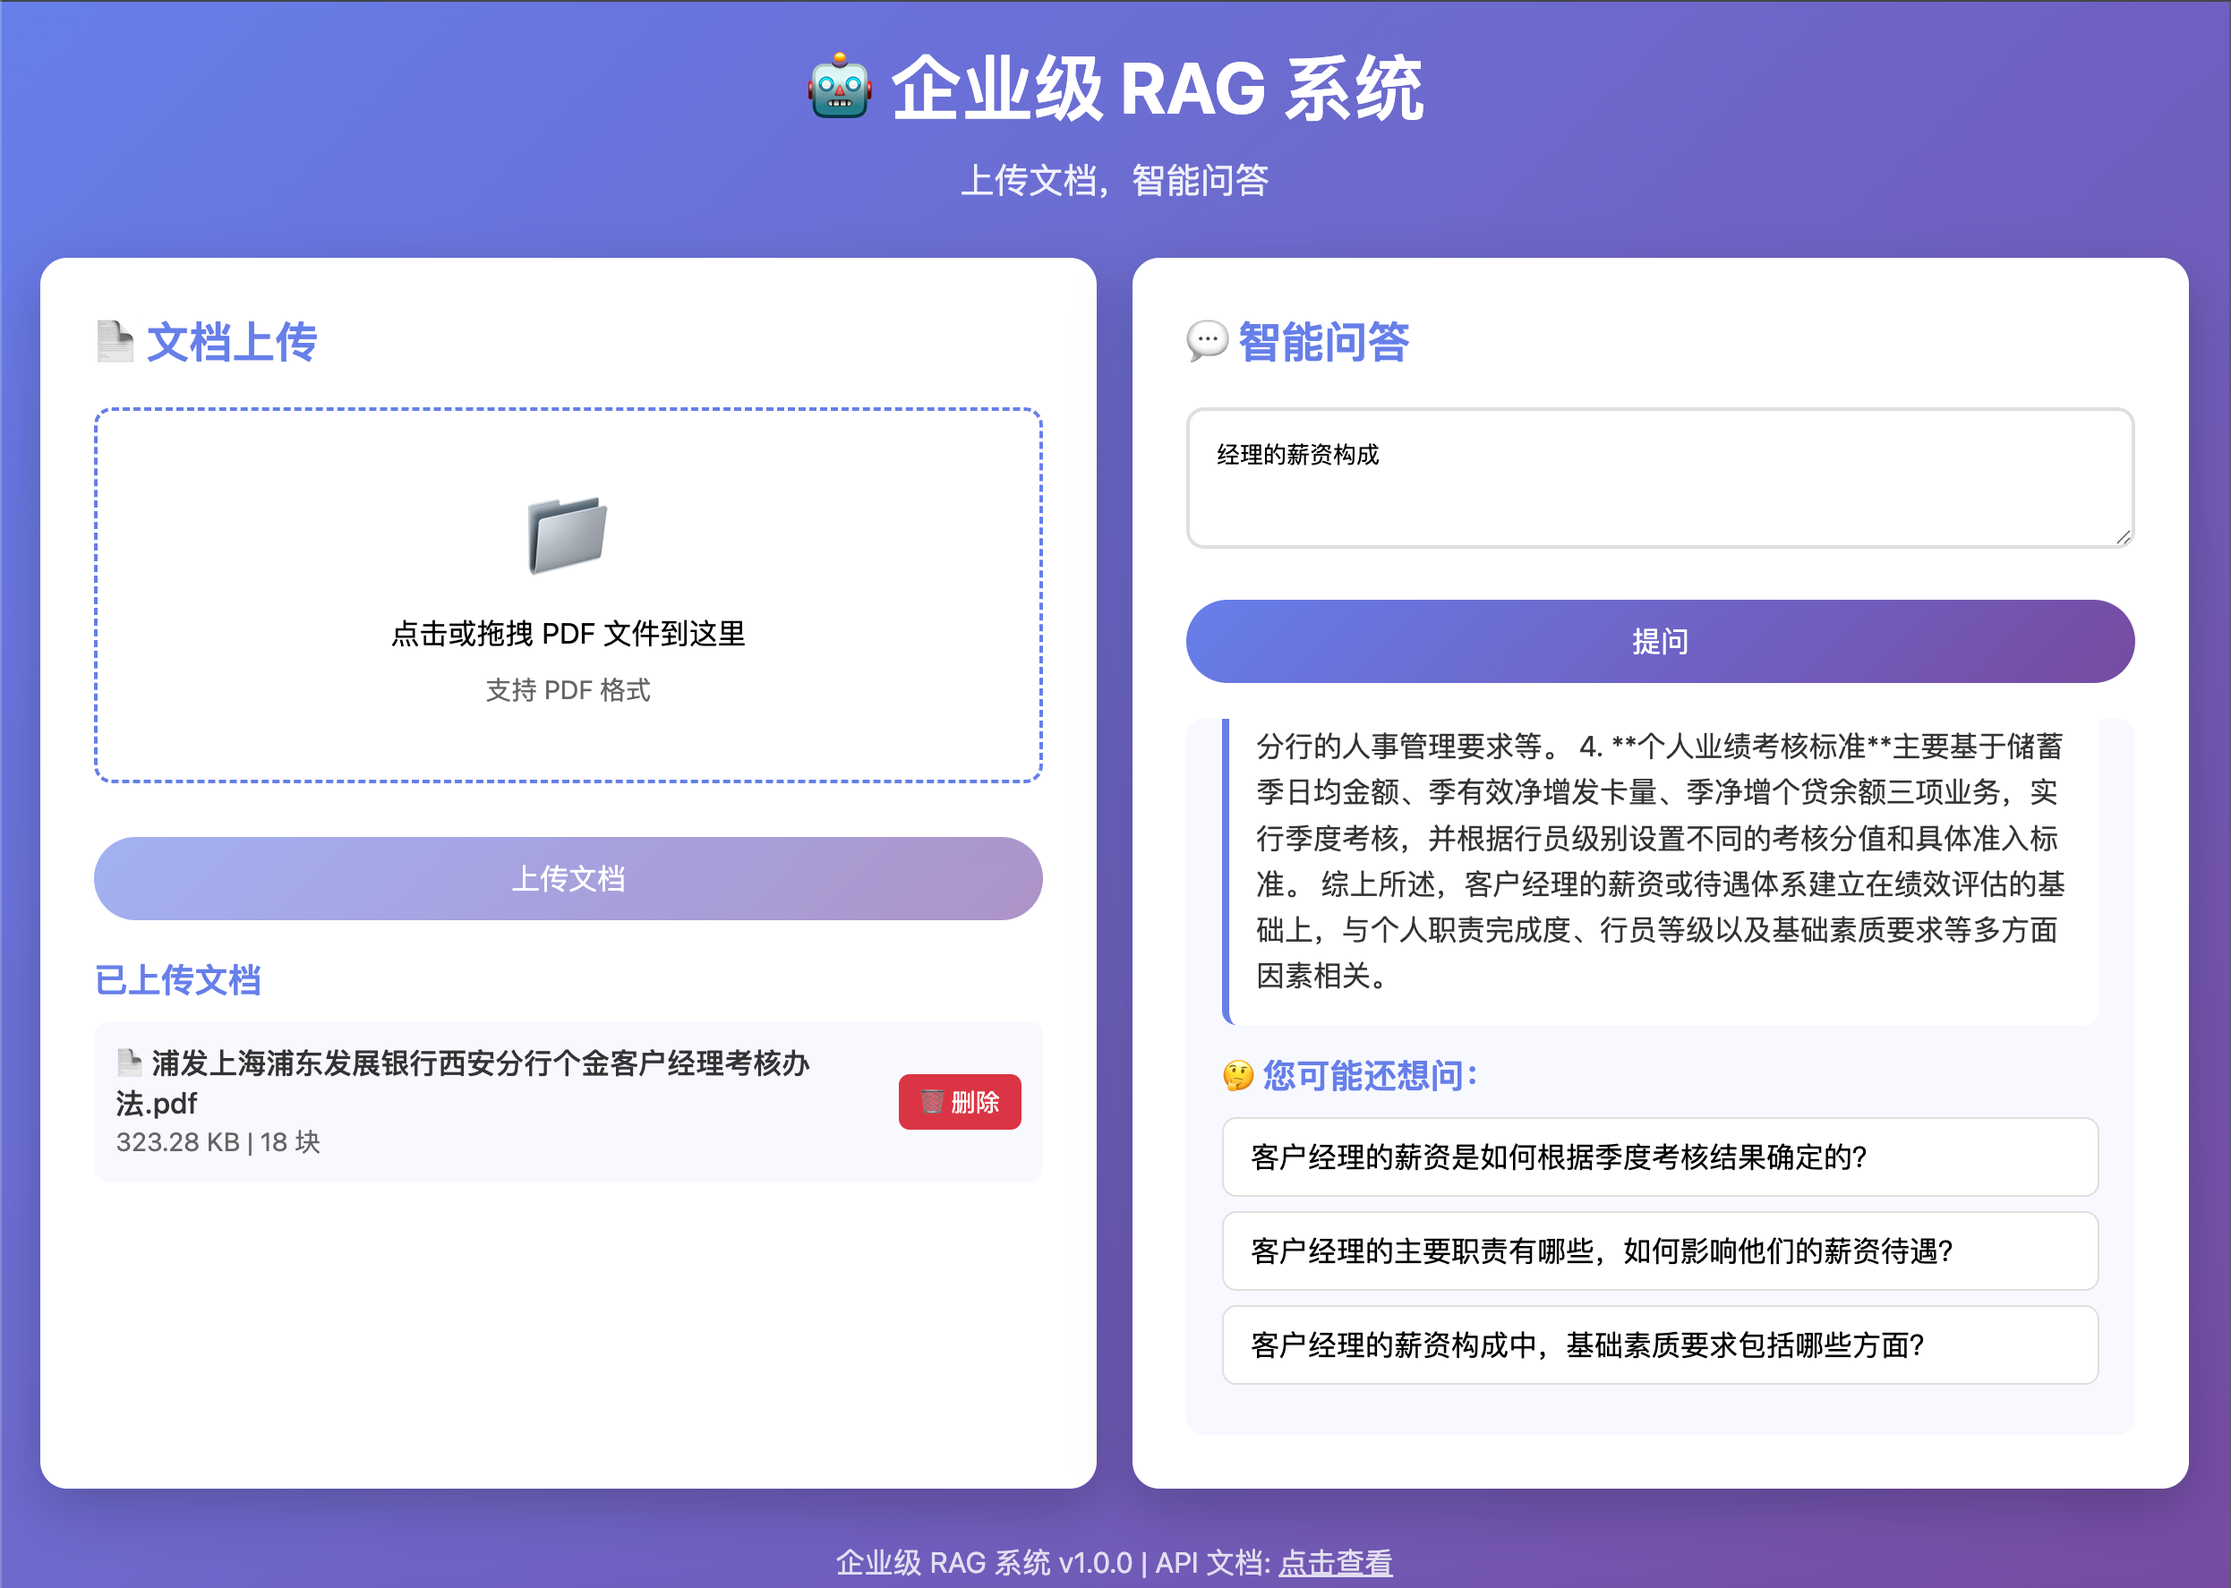
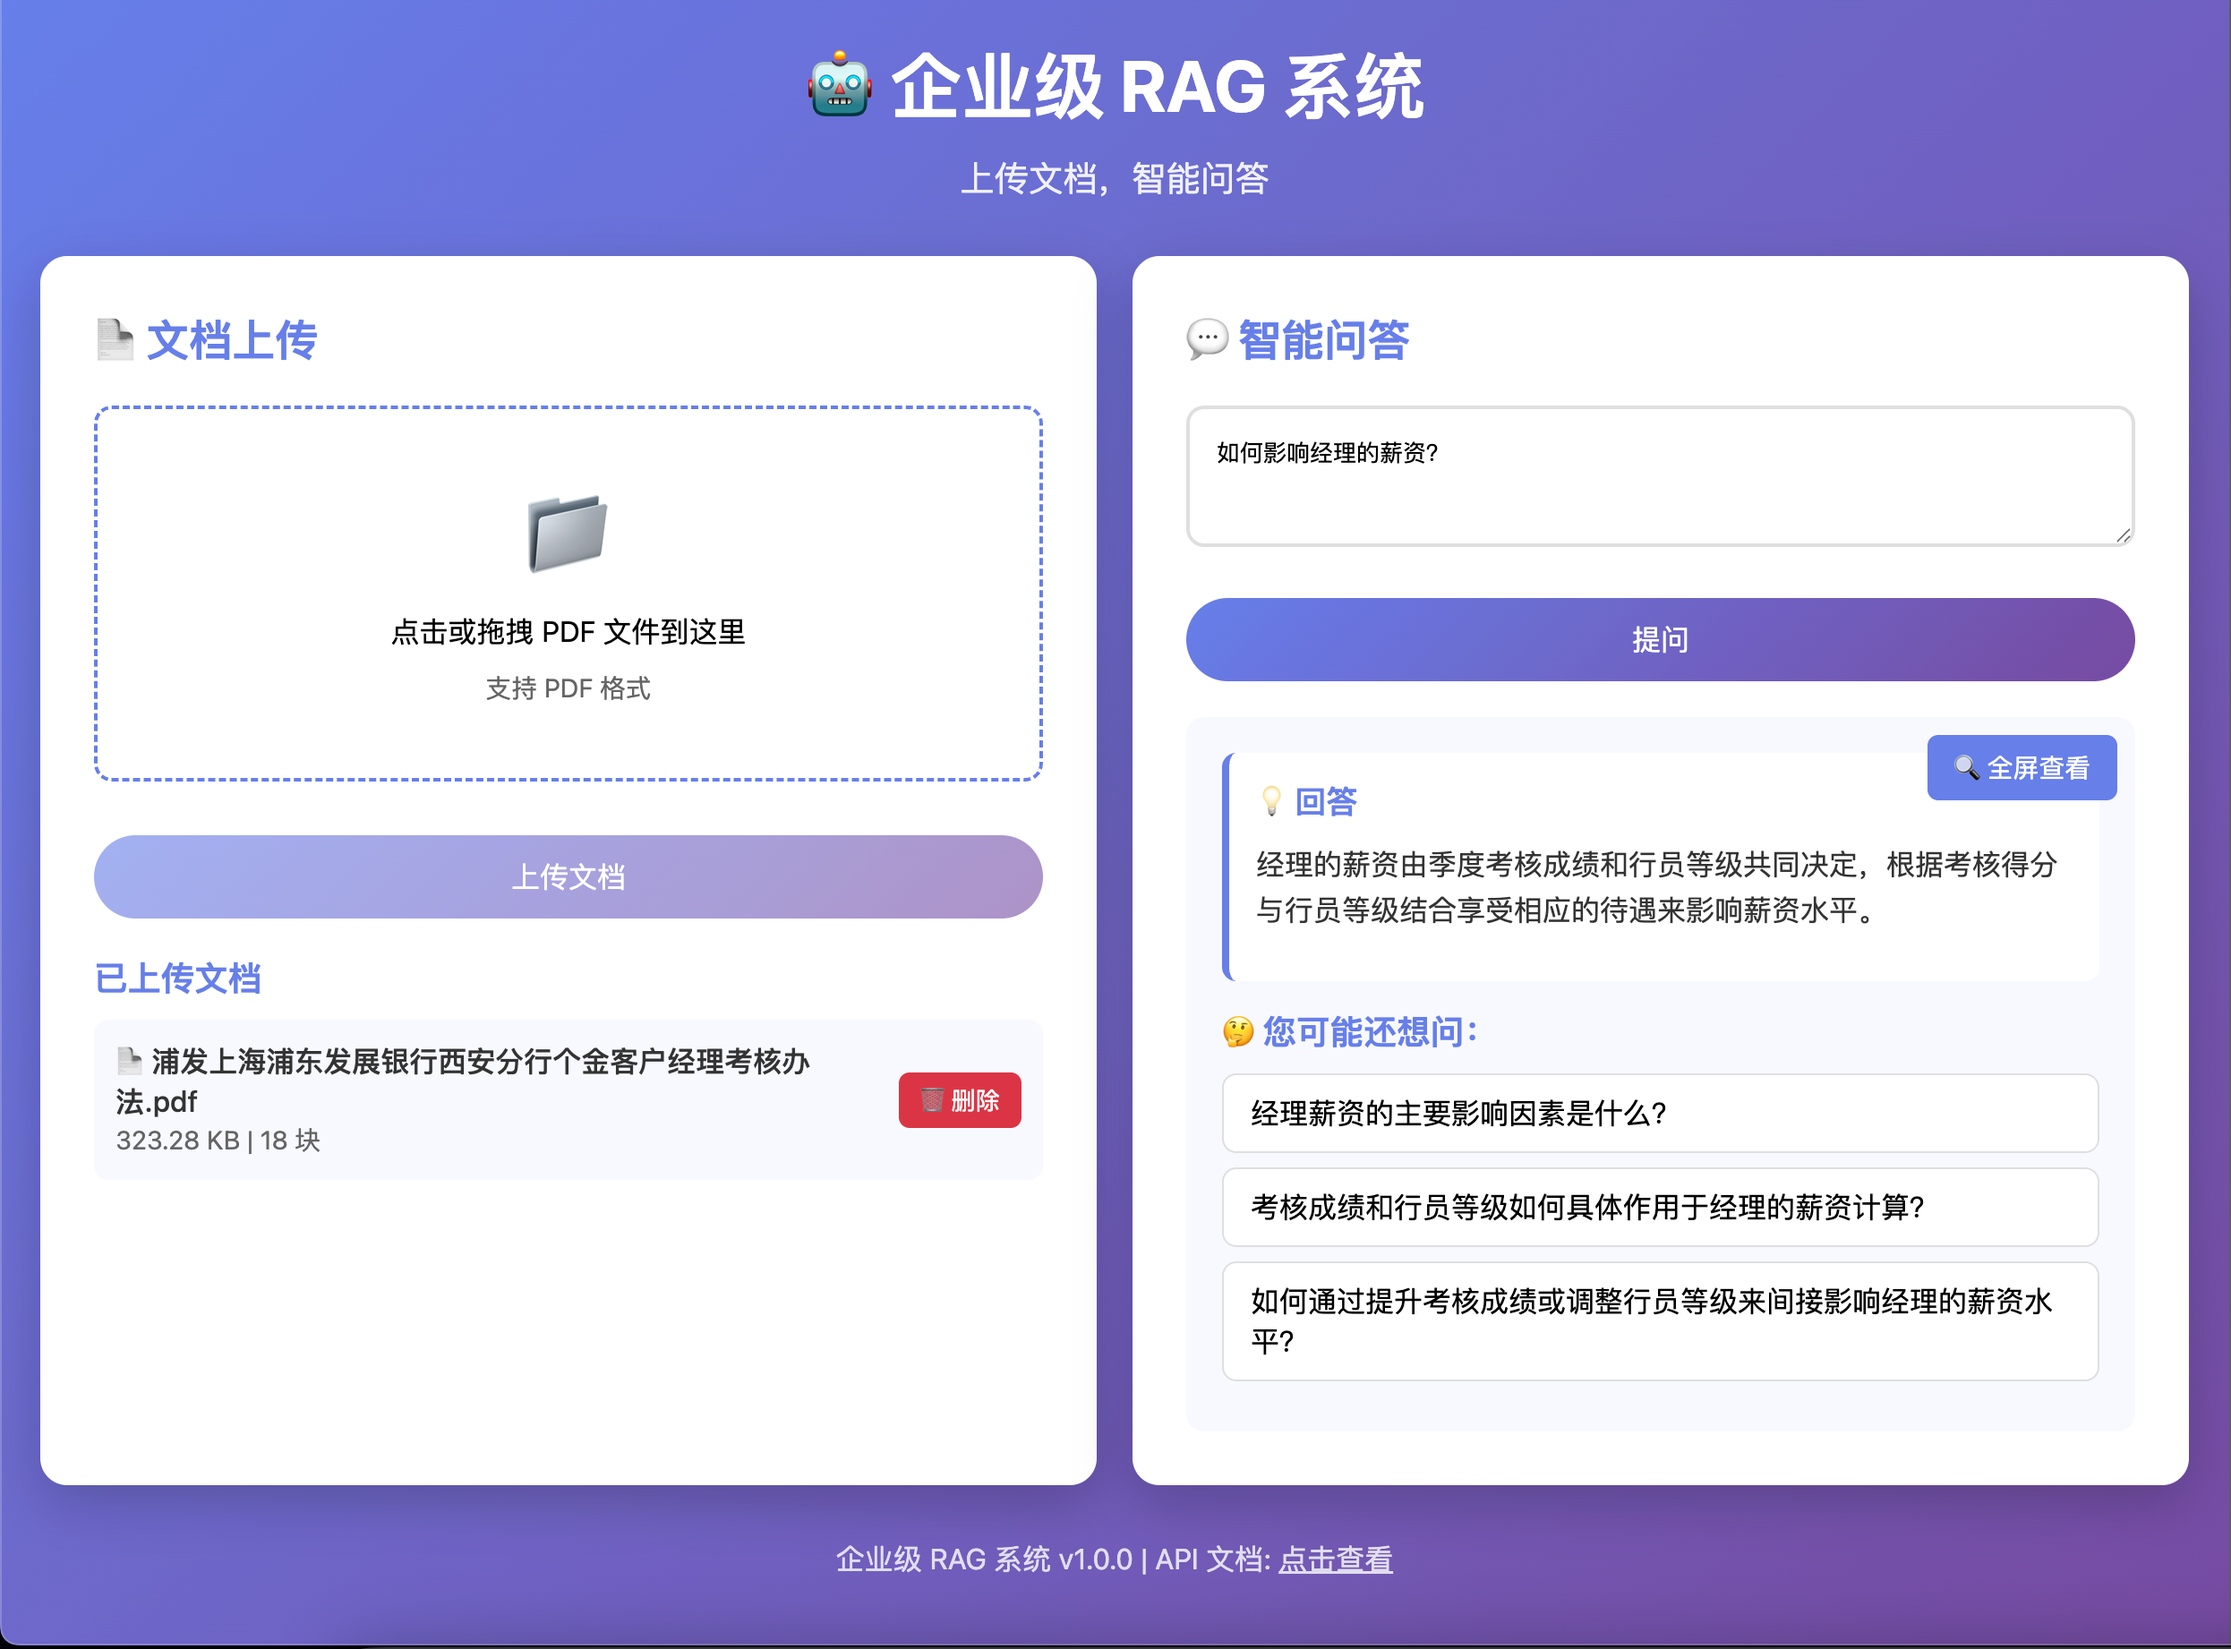
fix

diff --git a/src/api/static/index.html b/src/api/static/index.html
@@ -4,6 +4,8 @@
     <meta charset="UTF-8">
     <meta name="viewport" content="width=device-width, initial-scale=1.0">
     <title>企业级 RAG 系统</title>
+    <!-- Markdown 渲染库 -->
+    <script src="https://cdn.jsdelivr.net/npm/marked/marked.min.js"></script>
     <style>
         * {
             margin: 0;
@@ -134,6 +136,151 @@
             max-height: 400px;
             overflow-y: auto;
             margin-top: 20px;
+            position: relative;
+        }
+
+        .btn-expand {
+            position: absolute;
+            top: 10px;
+            right: 10px;
+            background: #667eea;
+            color: white;
+            border: none;
+            padding: 8px 15px;
+            border-radius: 6px;
+            font-size: 0.9em;
+            cursor: pointer;
+            transition: all 0.3s;
+            z-index: 10;
+        }
+
+        .btn-expand:hover {
+            background: #764ba2;
+            transform: translateY(-1px);
+            box-shadow: 0 2px 5px rgba(102, 126, 234, 0.3);
+        }
+
+        /* Markdown 样式 */
+        .markdown-content {
+            line-height: 1.8;
+        }
+
+        .markdown-content h1,
+        .markdown-content h2,
+        .markdown-content h3 {
+            color: #667eea;
+            margin-top: 20px;
+            margin-bottom: 10px;
+        }
+
+        .markdown-content p {
+            margin-bottom: 12px;
+        }
+
+        .markdown-content ul,
+        .markdown-content ol {
+            margin-left: 20px;
+            margin-bottom: 12px;
+        }
+
+        .markdown-content code {
+            background: #f4f4f4;
+            padding: 2px 6px;
+            border-radius: 4px;
+            font-family: 'Courier New', monospace;
+            font-size: 0.9em;
+        }
+
+        .markdown-content pre {
+            background: #f4f4f4;
+            padding: 15px;
+            border-radius: 8px;
+            overflow-x: auto;
+            margin-bottom: 12px;
+        }
+
+        .markdown-content pre code {
+            background: none;
+            padding: 0;
+        }
+
+        .markdown-content blockquote {
+            border-left: 4px solid #667eea;
+            padding-left: 15px;
+            margin-left: 0;
+            color: #666;
+            font-style: italic;
+        }
+
+        /* 全屏 Modal */
+        .modal {
+            display: none;
+            position: fixed;
+            z-index: 1000;
+            left: 0;
+            top: 0;
+            width: 100%;
+            height: 100%;
+            background-color: rgba(0, 0, 0, 0.7);
+            animation: fadeIn 0.3s;
+        }
+
+        .modal-content {
+            background-color: white;
+            margin: 2% auto;
+            padding: 30px;
+            border-radius: 15px;
+            width: 90%;
+            max-width: 900px;
+            max-height: 90vh;
+            overflow-y: auto;
+            box-shadow: 0 10px 40px rgba(0, 0, 0, 0.3);
+            animation: slideDown 0.3s;
+        }
+
+        .modal-header {
+            display: flex;
+            justify-content: space-between;
+            align-items: center;
+            margin-bottom: 20px;
+            padding-bottom: 15px;
+            border-bottom: 2px solid #f0f0f0;
+        }
+
+        .modal-header h2 {
+            color: #667eea;
+            margin: 0;
+        }
+
+        .btn-close {
+            background: #dc3545;
+            color: white;
+            border: none;
+            padding: 8px 15px;
+            border-radius: 6px;
+            font-size: 0.9em;
+            cursor: pointer;
+            transition: all 0.3s;
+        }
+
+        .btn-close:hover {
+            background: #c82333;
+        }
+
+        @keyframes fadeIn {
+            from { opacity: 0; }
+            to { opacity: 1; }
+        }
+
+        @keyframes slideDown {
+            from {
+                transform: translateY(-50px);
+                opacity: 0;
+            }
+            to {
+                transform: translateY(0);
+                opacity: 1;
+            }
         }
 
         .result-item {
@@ -328,6 +475,17 @@
             </div>
         </div>
 
+        <!-- 全屏 Modal -->
+        <div id="answerModal" class="modal">
+            <div class="modal-content">
+                <div class="modal-header">
+                    <h2>💡 回答详情</h2>
+                    <button class="btn-close" onclick="closeModal()">✕ 关闭</button>
+                </div>
+                <div id="modalAnswer" class="markdown-content"></div>
+            </div>
+        </div>
+
         <div class="footer">
             <p>企业级 RAG 系统 v1.0.0 | API 文档: <a href="/docs" style="color: white;">点击查看</a></p>
         </div>
@@ -484,10 +642,18 @@
                 const result = await response.json();
 
                 if (response.ok) {
+                    const answer = result.answer || '暂无答案';
+                    // 使用 marked 渲染 markdown
+                    const markdownHtml = marked.parse(answer);
+                    
+                    // 存储答案到全局变量，用于全屏显示
+                    window.currentAnswer = answer;
+                    
                     let html = `
+                        <button class="btn-expand" onclick="showFullAnswer()">🔍 全屏查看</button>
                         <div class="result-item">
                             <h3>💡 回答</h3>
-                            <p>${result.answer || '暂无答案'}</p>
+                            <div class="markdown-content">${markdownHtml}</div>
                         </div>
                     `;
 
@@ -582,6 +748,37 @@
 
         // 页面加载时获取文档列表
         loadDocuments();
+
+        // 全屏显示回答
+        function showFullAnswer() {
+            const modal = document.getElementById('answerModal');
+            const modalAnswer = document.getElementById('modalAnswer');
+            // 使用 marked 渲染 markdown
+            if (window.currentAnswer) {
+                modalAnswer.innerHTML = marked.parse(window.currentAnswer);
+                modal.style.display = 'block';
+            }
+        }
+
+        // 关闭 Modal
+        function closeModal() {
+            document.getElementById('answerModal').style.display = 'none';
+        }
+
+        // 点击 Modal 外部关闭
+        window.onclick = function(event) {
+            const modal = document.getElementById('answerModal');
+            if (event.target === modal) {
+                closeModal();
+            }
+        }
+
+        // ESC 键关闭 Modal
+        document.addEventListener('keydown', function(event) {
+            if (event.key === 'Escape') {
+                closeModal();
+            }
+        });
     </script>
 </body>
 </html>

diff --git a/src/core/qdrant_store.py b/src/core/qdrant_store.py
@@ -126,24 +126,43 @@ class QdrantStore(BaseVectorStore):
             是否插入成功
         """
         try:
+            import uuid
+            from src.utils.logger import logger
+            
             # 验证输入
             if not (len(vectors) == len(texts) == len(metadatas)):
                 raise ValueError("向量、文本和元数据数量必须一致")
             
             # 生成 ID（如果未提供）
             if ids is None:
-                import uuid
                 ids = [str(uuid.uuid4()) for _ in range(len(vectors))]
+            
+            # Qdrant 的点 ID 必须是纯 UUID 或整数
+            # 如果传入的 ID 包含下划线（如 document_id_chunk_N），需要转换为纯 UUID
+            qdrant_ids = []
+            for original_id in ids:
+                # 检查是否是有效的 UUID 格式
+                try:
+                    # 尝试解析为 UUID
+                    uuid.UUID(original_id)
+                    qdrant_ids.append(original_id)
+                except ValueError:
+                    # 如果不是有效的 UUID，生成新的 UUID
+                    # 将原始 ID 存储在 payload 中
+                    new_id = str(uuid.uuid4())
+                    qdrant_ids.append(new_id)
+                    logger.debug(f"将点 ID 从 '{original_id}' 转换为 UUID '{new_id}'")
             
             # 构建点数据
             points = []
-            for vec_id, vector, text, metadata in zip(ids, vectors, texts, metadatas):
+            for qdrant_id, original_id, vector, text, metadata in zip(qdrant_ids, ids, vectors, texts, metadatas):
                 payload = {
                     "text": text,
+                    "original_id": original_id,  # 保存原始 ID
                     **metadata
                 }
                 point = PointStruct(
-                    id=vec_id,
+                    id=qdrant_id,  # 使用纯 UUID
                     vector=vector.tolist(),
                     payload=payload
                 )
@@ -244,7 +263,7 @@ class QdrantStore(BaseVectorStore):
             document_id: 文档 ID
             
         Returns:
-            块 ID 列表
+            块 ID 列表（原始 ID）
         """
         try:
             from qdrant_client.models import Filter, FieldCondition, MatchValue
@@ -263,10 +282,17 @@ class QdrantStore(BaseVectorStore):
                 limit=10000  # 假设一个文档最多有 10000 个块
             )
             
-            chunk_ids = [point.id for point in results[0]]
+            # 从 payload 中获取原始 ID
+            chunk_ids = []
+            for point in results[0]:
+                # 优先使用 original_id，否则使用 Qdrant ID
+                original_id = point.payload.get("original_id", str(point.id))
+                chunk_ids.append(original_id)
+            
             return chunk_ids
         except Exception as e:
-            print(f"查找块 ID 失败: {e}")
+            from src.utils.logger import logger
+            logger.error(f"查找块 ID 失败: {e}")
             return []
     
     def get_vector_count(self) -> int:
